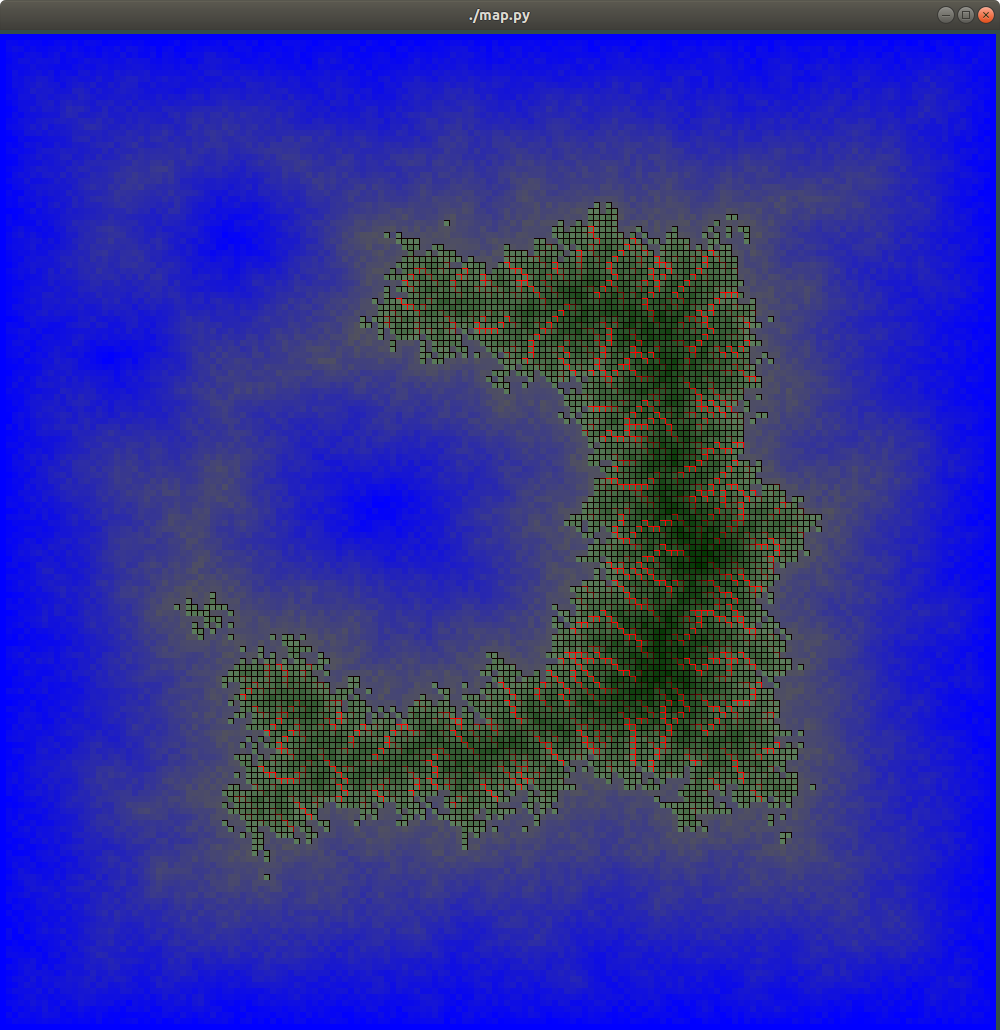
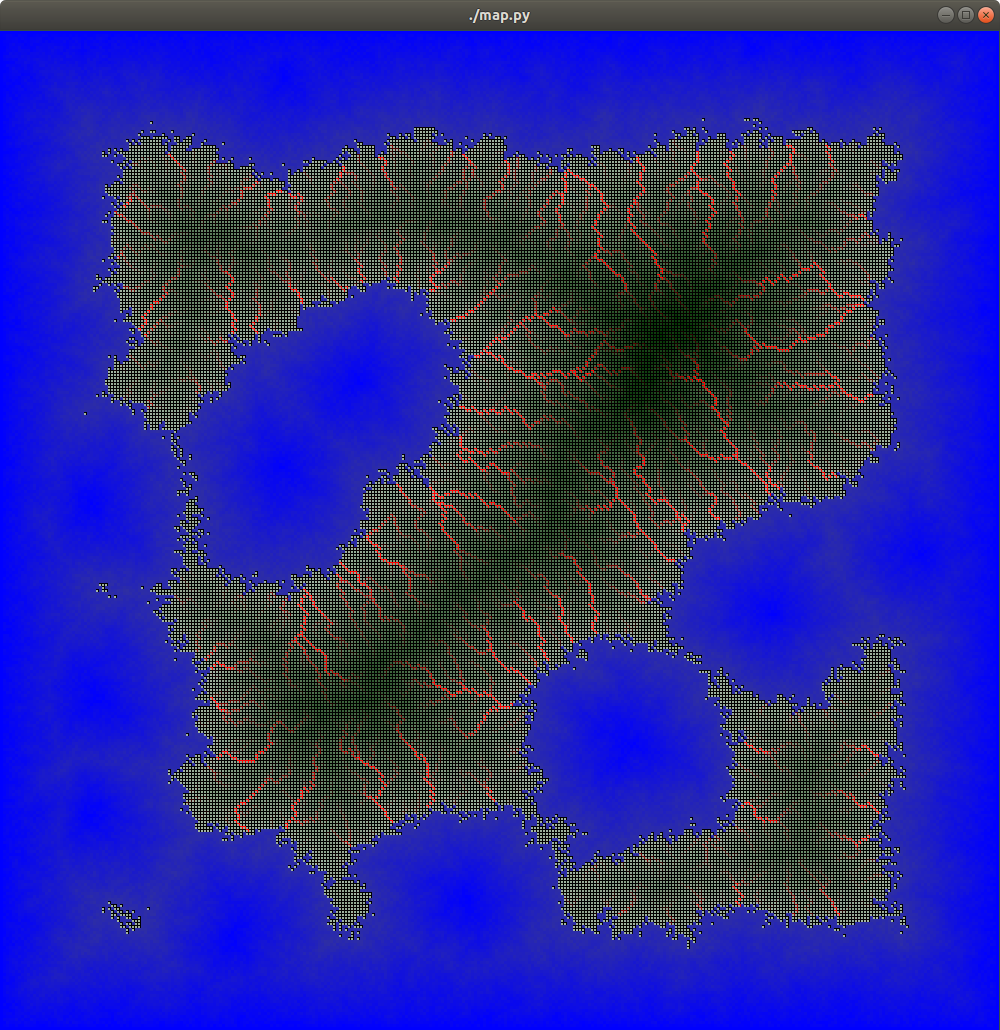
Update screenshots and example images.

diff --git a/README.md b/README.md
@@ -1,7 +1,8 @@
 # flowing-terrain
 This project is intended to document a simple algorithm for creating 3
 dimensional terrain maps and their likely watercourses.
-![islands](https://github.com/mrdunk/flowing-terrain/blob/master/assets/islands.png)
+Red lines here are where drainage indicates rivers will form:
+![islands](https://github.com/mrdunk/flowing-terrain/blob/master/assets/watershed.png)
 
 ## The problem:
 My previous experiments in creating maps for computer software models using
@@ -64,23 +65,23 @@ In this demonstration we set the outermost tile height to 0 (white) and put them
 in a sorted set called "open_set", sorted by height. These are the seed tiles
 where the algorithm starts.
 
-![diagram1](https://github.com/mrdunk/flowing-terrain/blob/master/assets/diagram1.png)
+![diagram1](https://github.com/mrdunk/flowing-terrain/blob/master/assets/diagram1.png =100x100)
 The algorithm picks the seed tile with the lowest height value from the open_set
 (using the tile's python object id() as a tie breaker) and assigns heights to
 any of it's neighbours not yet dealt with and assign to open_set.
 (Picked tile highlighted in red diagram1.)
 
-![diagram2](https://github.com/mrdunk/flowing-terrain/blob/master/assets/diagram2.png)
+![diagram2](https://github.com/mrdunk/flowing-terrain/blob/master/assets/diagram2.png =100x100)
 Next we pick the tile from the open_set with the next lowest height value, which
 here is another of the while edge tiles, and do the same again.
 Continue doing this until all the seed tiles are processed.
 
-![diagram3](https://github.com/mrdunk/flowing-terrain/blob/master/assets/diagram3.png)
-![diagram4](https://github.com/mrdunk/flowing-terrain/blob/master/assets/diagram4.png)
+![diagram3](https://github.com/mrdunk/flowing-terrain/blob/master/assets/diagram3.png =100x100)
+![diagram4](https://github.com/mrdunk/flowing-terrain/blob/master/assets/diagram4.png =100x100)
 Continue with the tile with the next lowest height value in the open_set
 (highlighted in red).
 
-![diagram5](https://github.com/mrdunk/flowing-terrain/blob/master/assets/diagram5.png)
+![diagram5](https://github.com/mrdunk/flowing-terrain/blob/master/assets/diagram5.png =100x100)
 Eventually all tiles will be processed and have heights set.
 
 ## The drainage algorithm:
@@ -90,3 +91,7 @@ Eventually all tiles will be processed and have heights set.
 At the end of this process every tile will have a drainage value equivalent to
 the number of tiles draining into it. Rivers can be assumed to exist in tiles
 with a higher value.
+
+![islands](https://github.com/mrdunk/flowing-terrain/blob/master/assets/lizard.png)
+![islands](https://github.com/mrdunk/flowing-terrain/blob/master/assets/lagoon.png)
+
